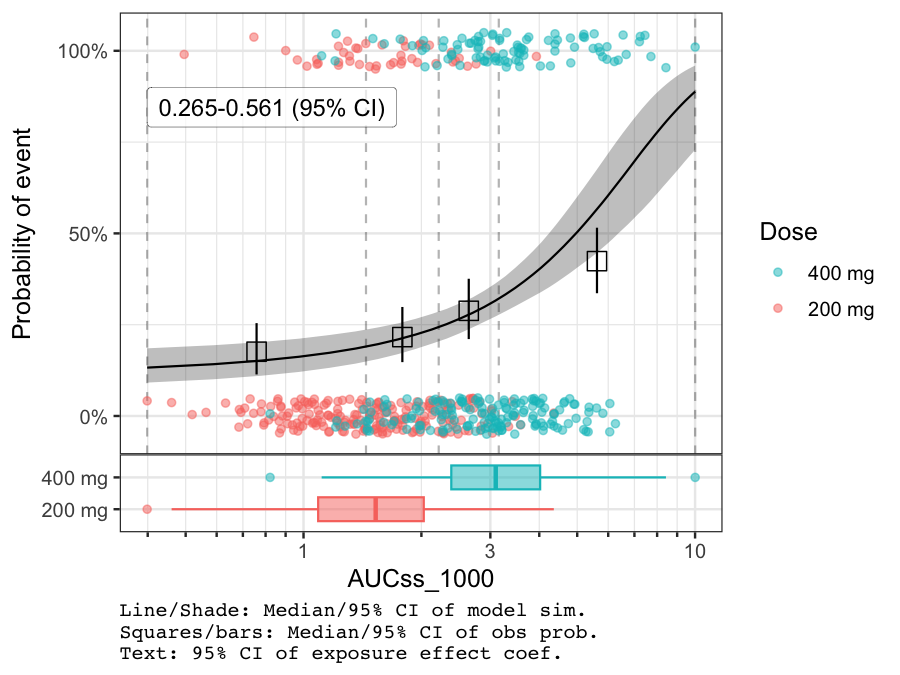
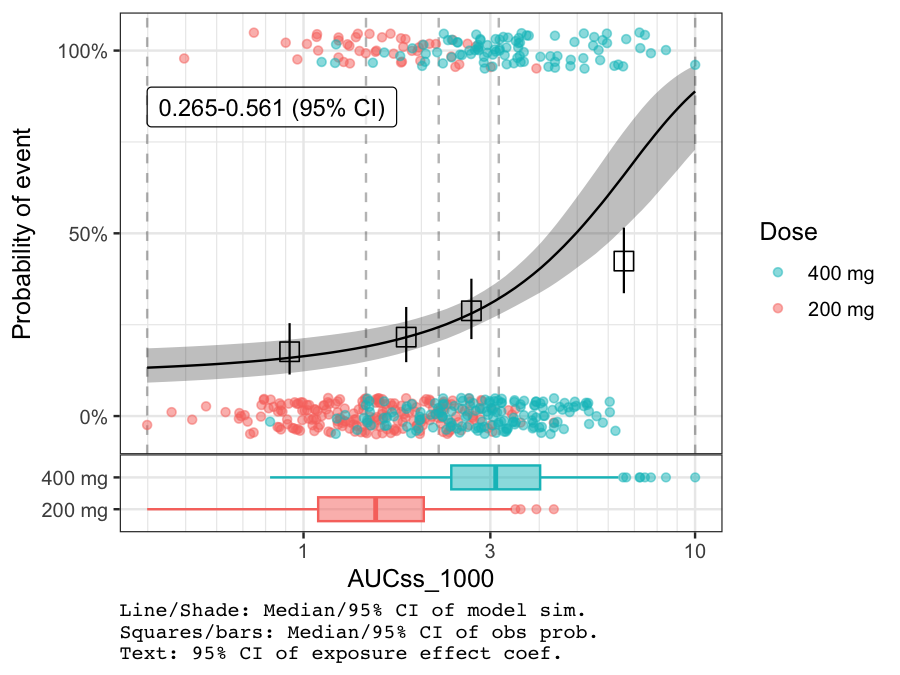
Deploying to gh-pages from @ Genentech/BayesERtools@4e4617a8794f03f8924ff52a8209c8c0019f0f87 🚀

diff --git a/index.html b/index.html
@@ -239,7 +239,7 @@ Linear
 </td>
 </tr>
 </tbody>
-<tfoot class="gt_footnotes"><tr>
+<tfoot><tr class="gt_footnotes">
 <td class="gt_footnote" colspan="5">
 ✅ Available, 🟡 In plan/under development, ❌ Not in a current plan
 </td>
@@ -255,7 +255,7 @@ Linear
 <code class="sourceCode R"><span><span class="co"># Load package and data</span></span>
 <span><span class="kw"><a href="https://rdrr.io/r/base/library.html" class="external-link">library</a></span><span class="op">(</span><span class="va"><a href="https://dplyr.tidyverse.org" class="external-link">dplyr</a></span><span class="op">)</span></span>
 <span><span class="kw"><a href="https://rdrr.io/r/base/library.html" class="external-link">library</a></span><span class="op">(</span><span class="va"><a href="https://genentech.github.io/BayesERtools/">BayesERtools</a></span><span class="op">)</span></span>
-<span><span class="fu">ggplot2</span><span class="fu">::</span><span class="fu"><a href="https://ggplot2.tidyverse.org/reference/get_theme.html" class="external-link">theme_set</a></span><span class="op">(</span><span class="fu">ggplot2</span><span class="fu">::</span><span class="fu"><a href="https://ggplot2.tidyverse.org/reference/ggtheme.html" class="external-link">theme_bw</a></span><span class="op">(</span>base_size <span class="op">=</span> <span class="fl">12</span><span class="op">)</span><span class="op">)</span></span>
+<span><span class="fu">theme_set</span><span class="op">(</span><span class="fu">theme_bw</span><span class="op">(</span>base_size <span class="op">=</span> <span class="fl">12</span><span class="op">)</span><span class="op">)</span></span>
 <span></span>
 <span><span class="fu"><a href="https://rdrr.io/r/utils/data.html" class="external-link">data</a></span><span class="op">(</span><span class="va">d_sim_binom_cov</span><span class="op">)</span></span>
 <span></span>
@@ -303,12 +303,12 @@ Linear
 <span><span class="co"># Using `*` instead of `+` so that scale can be</span></span>
 <span><span class="co"># applied for both panels (main plot and boxplot)</span></span>
 <span><span class="fu"><a href="reference/plot_er_gof.html">plot_er_gof</a></span><span class="op">(</span><span class="va">ermod_bin</span>, var_group <span class="op">=</span> <span class="st">"Dose"</span>, show_coef_exp <span class="op">=</span> <span class="cn">TRUE</span><span class="op">)</span> <span class="op">*</span></span>
-<span>  <span class="fu">xgxr</span><span class="fu">::</span><span class="fu"><a href="https://rdrr.io/pkg/xgxr/man/xgx_scale_x_log10.html" class="external-link">xgx_scale_x_log10</a></span><span class="op">(</span>guide <span class="op">=</span> <span class="fu">ggplot2</span><span class="fu">::</span><span class="fu"><a href="https://ggplot2.tidyverse.org/reference/guide_axis.html" class="external-link">guide_axis</a></span><span class="op">(</span>minor.ticks <span class="op">=</span> <span class="cn">TRUE</span><span class="op">)</span><span class="op">)</span></span>
-<span><span class="co">#&gt; Warning in ggplot2::annotate("label", x = pos_ci_annot[1], y = pos_ci_annot[2],</span></span>
-<span><span class="co">#&gt; : Ignoring unknown parameters: `label.size`</span></span>
-<span><span class="co">#&gt; Warning: annotation$theme is not a valid theme.</span></span>
-<span><span class="co">#&gt; Please use `theme()` to construct themes.</span></span></code></pre></div>
-<p><img src="reference/figures/README-ermod_bin-1.png" width="75%"></p>
+<span>  <span class="fu">coord_transform</span><span class="op">(</span>x <span class="op">=</span> <span class="st">"log10"</span><span class="op">)</span> <span class="op">*</span></span>
+<span>  <span class="fu">scale_x_continuous</span><span class="op">(</span></span>
+<span>    breaks <span class="op">=</span> <span class="fu">xgxr</span><span class="fu">::</span><span class="va"><a href="https://rdrr.io/pkg/xgxr/man/xgx_breaks_log10.html" class="external-link">xgx_breaks_log10</a></span>,</span>
+<span>    minor_breaks <span class="op">=</span> <span class="fu">xgxr</span><span class="fu">::</span><span class="va"><a href="https://rdrr.io/pkg/xgxr/man/xgx_minor_breaks_log10.html" class="external-link">xgx_minor_breaks_log10</a></span></span>
+<span>  <span class="op">)</span></span></code></pre></div>
+<p><img src="reference/figures/README-ermod_bin-1.png" alt="" width="75%"></p>
 </div>
 <div class="section level3">
 <h3 id="covariate-selection">Covariate selection<a class="anchor" aria-label="anchor" href="#covariate-selection"></a>
@@ -355,13 +355,11 @@ Linear
 <span><span class="co">#&gt; * For help interpreting the printed output see ?print.stanreg</span></span>
 <span><span class="co">#&gt; * For info on the priors used see ?prior_summary.stanreg</span></span>
 <span><span class="fu"><a href="reference/plot_cov_sel.html">plot_submod_performance</a></span><span class="op">(</span><span class="va">ermod_bin_cov_sel</span><span class="op">)</span></span></code></pre></div>
-<p><img src="reference/figures/README-ermod_bin_cov_sel-1.png" width="75%"></p>
+<p><img src="reference/figures/README-ermod_bin_cov_sel-1.png" alt="" width="75%"></p>
 <div class="sourceCode" id="cb5"><pre class="downlit sourceCode r">
 <code class="sourceCode R"><span><span class="va">coveffsim</span> <span class="op">&lt;-</span> <span class="fu"><a href="reference/sim_coveff.html">sim_coveff</a></span><span class="op">(</span><span class="va">ermod_bin_cov_sel</span><span class="op">)</span></span>
-<span><span class="fu"><a href="reference/plot_coveff.html">plot_coveff</a></span><span class="op">(</span><span class="va">coveffsim</span><span class="op">)</span></span>
-<span><span class="co">#&gt; Warning in geom_errorbar(..., orientation = orientation): Ignoring unknown</span></span>
-<span><span class="co">#&gt; parameters: `height`</span></span></code></pre></div>
-<p><img src="reference/figures/README-plot_coveff-1.png" width="75%"></p>
+<span><span class="fu"><a href="reference/plot_coveff.html">plot_coveff</a></span><span class="op">(</span><span class="va">coveffsim</span><span class="op">)</span></span></code></pre></div>
+<p><img src="reference/figures/README-plot_coveff-1.png" alt="" width="75%"></p>
 </div>
 </div>
 </div>

diff --git a/index.md b/index.md
@@ -34,7 +34,7 @@ for more thorough walk through.
 # Load package and data
 library(dplyr)
 library(BayesERtools)
-ggplot2::theme_set(ggplot2::theme_bw(base_size = 12))
+theme_set(theme_bw(base_size = 12))
 
 data(d_sim_binom_cov)
 
@@ -84,11 +84,11 @@ ermod_bin
 # Using `*` instead of `+` so that scale can be
 # applied for both panels (main plot and boxplot)
 plot_er_gof(ermod_bin, var_group = "Dose", show_coef_exp = TRUE) *
-  xgxr::xgx_scale_x_log10(guide = ggplot2::guide_axis(minor.ticks = TRUE))
-#> Warning in ggplot2::annotate("label", x = pos_ci_annot[1], y = pos_ci_annot[2],
-#> : Ignoring unknown parameters: `label.size`
-#> Warning: annotation$theme is not a valid theme.
-#> Please use `theme()` to construct themes.
+  coord_transform(x = "log10") *
+  scale_x_continuous(
+    breaks = xgxr::xgx_breaks_log10,
+    minor_breaks = xgxr::xgx_minor_breaks_log10
+  )
 ```
 
 ![](reference/figures/README-ermod_bin-1.png)
@@ -147,8 +147,6 @@ plot_submod_performance(ermod_bin_cov_sel)
 
 coveffsim <- sim_coveff(ermod_bin_cov_sel)
 plot_coveff(coveffsim)
-#> Warning in geom_errorbar(..., orientation = orientation): Ignoring unknown
-#> parameters: `height`
 ```
 
 ![](reference/figures/README-plot_coveff-1.png)